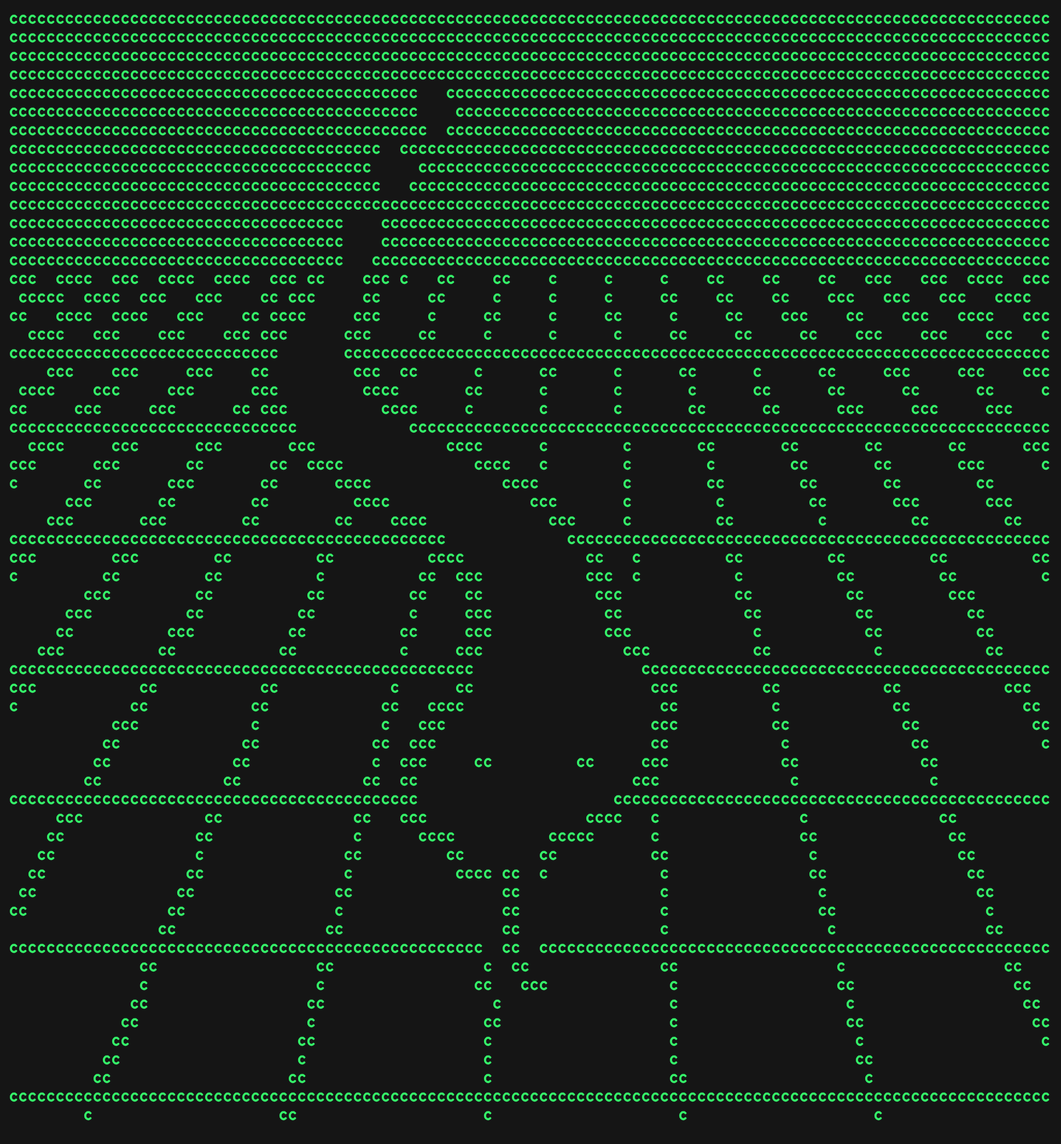
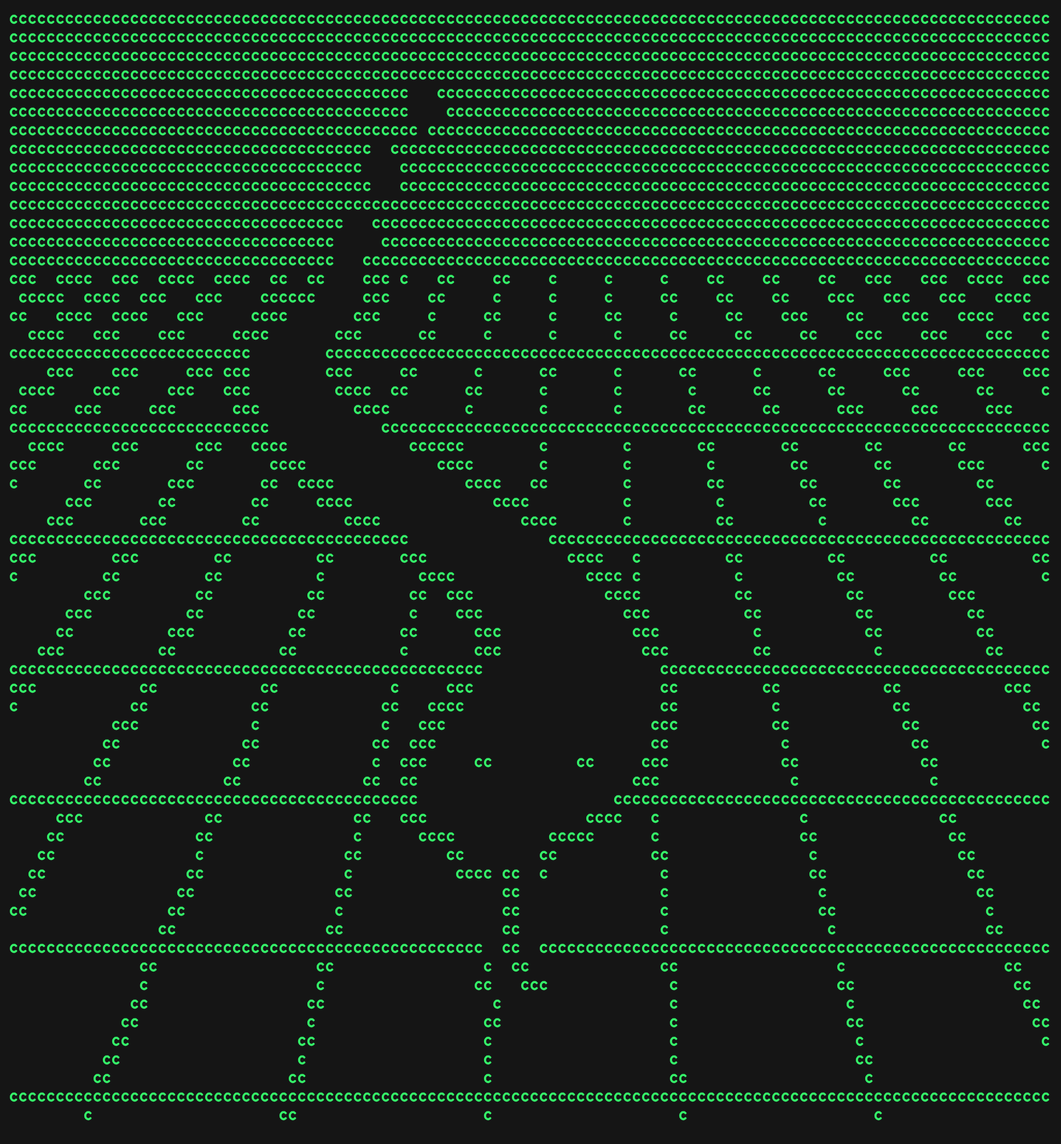
Toy: back to the swinging bend, with the head centred and broken pixels cleaned
The crawl model broke the outline near the horizon, so the body is
the earlier swinging bend again (the version picked as D), with:

- the bend eased out over the 4 rows below the neck, which no longer
  clips;
- the head drawn in the view's middle, nodding 3 px each way at the
  site's 250 px;
- each frame cleaned before it is shown: a 'c' with no 'c' around it
  (the eyes aside) is cleared and a ' ' with a 'c' on all four sides is
  filled, where two shapes met a column apart and read as broken
  pixels. No such cell is left in any of the knob states over a sway.

diff --git a/toy.js b/toy.js
@@ -10,8 +10,8 @@
 // middle is at x = 0.5: the default sits mid-way, and the ends reach far enough to feel at once and be a little silly.
 const KNOBS = [
   ['speed', 0.03, 0.3, 2.4],
-  ['sway', 0, 1, 3],
-  ['waves', 0, 1, 3],
+  ['sway', 0, 2, 12],
+  ['waves', 0, 0.7, 3],
   ['resolution', 96, 112, 192],
   ['rattle', 0, 0.6, 5],
 ];

diff --git a/logo.c b/logo.c
@@ -20,10 +20,9 @@
 #define LOGO_PI 3.14159265358979323846
 
 typedef struct {
-    double speed; /* sways a second */
-    double
-        sway; /* how far the bends swing, LOGO_SWING columns at the tail a unit (the tongue flicks a column a unit) */
-    double waves;   /* waves along the body at once: 1 is the drawn S */
+    double speed;   /* sways a second */
+    double sway;    /* columns the tail swings each way (the tongue flicks half as far) */
+    double waves;   /* waves along the body at once */
     double columns; /* the logo's width in characters */
     double rattle;  /* columns each rattle segment swings from the one below */
 } LogoSettings;     /* at rest: no sway or rattle */
@@ -34,7 +33,7 @@ extern char logo_out[LOGO_MAX_ROWS * (LOGO_MAX_COLS + 1)];
 int logo_frame(double t);
 
 #ifndef LOGO_SETTINGS
-#define LOGO_SETTINGS {0.3, 1, 1, 112, 0.6}
+#define LOGO_SETTINGS {0.3, 2, 0.7, 112, 0.6}
 #endif
 LogoSettings logo_set = LOGO_SETTINGS;
 char logo_out[LOGO_MAX_ROWS * (LOGO_MAX_COLS + 1)]; /* the rows joined by '\n' */
@@ -158,31 +157,50 @@ static void logo_draw_floor(void) {
     }
 }
 
-#define LOGO_SWING 8.0 /* columns the tail's end swings each way at a sway of 1 */
-#define LOGO_NOD 1.15  /* columns the head swings each way at a sway of 1: 3 px at the site's 250 px */
-#define LOGO_SHEAR 4.0 /* the most the wave may tilt one row of the body against the next, in columns */
+#define LOGO_NOD                                                                                                       \
+    0.575 /* the head's part of the sway: 1.15 columns each way, 3 px at the site's 250 px, at the default */
+#define LOGO_SHEAR 2.2 /* the most the sway may move one row of the body against the next, in columns */
 
-/* The radians the wave runs behind per row away from the neck */
+/* The radians the sway lags by per row away from the neck */
 static double logo_wave(void) { return logo_set.waves * 2 * LOGO_PI / (LOGO_NECK - LOGO_TAIL); }
 
-/* How far the head is from its place at phase p: a little, in step with the wave where it leaves the neck */
-static double logo_nod(double p) { return logo_set.sway * LOGO_NOD * logo_sin(p - LOGO_PI); }
+/* How far the snake is from its place at the model's row (from the neck on, the head; past the tail's end, the
+ * rattle) at phase p: the sway grows toward the tail, and the head, in the view's middle, nods with a small part of it */
+static double logo_offset(double row, double p) {
+    double from_neck = row < LOGO_NECK ? LOGO_NECK - row : 0;
+    double u = from_neck / (LOGO_NECK - LOGO_TAIL);
+    double head = LOGO_NOD;
 
-/* How far the wave carries the snake's middle at the model's row (held between the tail's end and the neck) at phase
- * p from the straight line between the tail's end and the neck, as a rattlesnake crawls: its bends run down the body
- * from the neck to the tail, as far to one side as to the other, and at phase 0 lie as the S is drawn. They grow from the head's nod at the neck, so the head stays near the view's
- * middle, to LOGO_SWING columns at the tail's end, where the body is drawn smallest and swings most */
-static double logo_carry(double row, double p) {
-    double r = row < LOGO_TAIL ? LOGO_TAIL : row > LOGO_NECK ? LOGO_NECK : row; /* the head moves as the neck */
-    double u = (LOGO_NECK - r) / (LOGO_NECK - LOGO_TAIL);
-    double behind = (LOGO_NECK - r) * logo_wave() + LOGO_PI;
     double sway = logo_set.sway;
 
     /* no more than LOGO_SHEAR columns between two rows, or the body comes apart into bars: the more waves, the less
      * it can swing */
-    if (sway * LOGO_SWING * logo_wave() > LOGO_SHEAR)
-        sway = LOGO_SHEAR / (LOGO_SWING * logo_wave());
-    return sway * LOGO_SWING * logo_sqrt(u * logo_sqrt(u)) * logo_sin(p - behind) + (1 - u) * logo_nod(p);
+    if (sway * logo_wave() > LOGO_SHEAR)
+        sway = LOGO_SHEAR / logo_wave();
+    u = u > 1 ? 1 : u;
+    return sway * (head + (1 - head) * u * logo_sqrt(u)) * logo_sin(p - from_neck * logo_wave());
+}
+
+#define LOGO_FLIP 2.0  /* the sway from which the body's bend crosses all the way to the other side */
+#define LOGO_EASE 4.0  /* rows below the neck over which the bend fades out */
+#define LOGO_DEPTH 1.0 /* how far it crosses, as a part of how far it was on its own side */
+
+/* How far the body's bend has moved at row r (between the tail's end and the neck) at phase p, for a row whose middle
+ * is at the model's column middle: its distance from the straight line from the tail's end to the neck is multiplied
+ * by a factor that swings from 1 to -LOGO_DEPTH and back (with the waves' lag), so the knee crosses to the other side every
+ * sway */
+static double logo_bend(double r, double middle, double p) {
+    double tail = (logo_snake[0][0] + logo_snake[0][1]) / 2.0;
+    double neck = (logo_snake[LOGO_NECK - LOGO_TAIL][0] + logo_snake[LOGO_NECK - LOGO_TAIL][1]) / 2.0;
+    double line = tail + (neck - tail) * (r - LOGO_TAIL) / (LOGO_NECK - LOGO_TAIL);
+    double flip = logo_set.sway < LOGO_FLIP ? logo_set.sway / LOGO_FLIP : 1;
+    double turned = (1 - logo_sin(p + LOGO_PI / 2 - (LOGO_NECK - r) * logo_wave())) / 2 *
+                    (1 + LOGO_DEPTH); /* 0, then 1 + LOGO_DEPTH */
+
+    double near = (LOGO_NECK - r) / LOGO_EASE; /* eased in over the rows below the neck, so the neck bends smoothly */
+    double ease = near > 1 ? 1 : near < 0 ? 0 : near * near * (3 - 2 * near);
+
+    return -flip * ease * turned * (middle - line);
 }
 
 /* The model's column of side 0 (the left) or 1 (the right) of the snake as drawn at rest, at row r between two rows */
@@ -194,15 +212,12 @@ static double logo_drawn(int side, double r) {
     return (1 - t) * logo_snake[below - LOGO_TAIL][side] + t * logo_snake[above - LOGO_TAIL][side];
 }
 
-/* The middle of the snake at the model's row (held between the tail's end and the chin) at phase p */
+/* The middle of the snake at the model's row (r, held between the tail's end and the chin) at phase p */
 static double logo_middle(double row, double p) {
     double r = row < LOGO_TAIL ? LOGO_TAIL : row > LOGO_CHIN - 1 ? LOGO_CHIN - 1 : row;
+    double middle = (logo_drawn(0, r) + logo_drawn(1, r)) / 2;
 
-    double tail = (logo_drawn(0, LOGO_TAIL) + logo_drawn(1, LOGO_TAIL)) / 2;
-    double neck = (logo_drawn(0, LOGO_NECK) + logo_drawn(1, LOGO_NECK)) / 2;
-    double line = tail + (neck - tail) * (r - LOGO_TAIL) / (LOGO_NECK - LOGO_TAIL);
-
-    return (r < LOGO_NECK ? line : (logo_drawn(0, r) + logo_drawn(1, r)) / 2) + logo_carry(r, p);
+    return middle + logo_offset(row, p) + logo_bend(r, middle, p);
 }
 
 /* A side of the snake at the model's row, in this frame's columns: side 0 the left, 1 the right. The body keeps its
@@ -216,7 +231,7 @@ static double logo_side(int side, double row, double p) {
     double rest = (logo_drawn(0, down) + logo_drawn(1, down) - logo_drawn(0, up) - logo_drawn(1, up)) / 2;
     double now = logo_middle(down, p) - logo_middle(up, p);
     double slant = (4 + now * now) / (4 + rest * rest);
-    double width = (logo_drawn(1, r) - logo_drawn(0, r)) * logo_sqrt(slant < 0.5625 ? 0.5625 : slant < 1 ? slant : 1);
+    double width = (logo_drawn(1, r) - logo_drawn(0, r)) * (logo_sqrt(slant < 0.5625 ? 0.5625 : slant < 1 ? slant : 1));
 
     return logo_x(logo_middle(row, p) + (side ? width : -width) / 2);
 }
@@ -254,7 +269,7 @@ static void logo_draw_snake(double p) {
     for (y = chin; y < logo_y(LOGO_CHIN + 1); y++)
         logo_fill(y, logo_side(0, LOGO_CHIN, p) - logo_thin(), logo_side(1, LOGO_CHIN, p) + logo_thin(), 'c');
     for (e = 0; e < 2; e++) {
-        double col = logo_eyes[e] + logo_nod(p);
+        double col = logo_eyes[e] + logo_offset(LOGO_EYES_ROW, p);
 
         logo_fill(logo_y(LOGO_EYES_ROW), logo_x(col - 0.4), logo_x(col + 0.4), 'c');
     }
@@ -264,7 +279,7 @@ static void logo_draw_snake(double p) {
  * with a dark column either side where it crosses the floor */
 static void logo_draw_tongue(double p) {
     double half = 0.5 / logo_scale;
-    double flick = logo_set.sway * logo_sin(3 * p);
+    double flick = logo_set.sway / 2 * logo_sin(3 * p);
     int y;
     unsigned i;
 
@@ -276,7 +291,7 @@ static void logo_draw_tongue(double p) {
             double to = logo_row(y) + half > part[2] ? part[2] : logo_row(y) + half;
             double a = part[1] + (part[3] - part[1]) * (from - part[0]) / (part[2] - part[0]);
             double b = part[1] + (part[3] - part[1]) * (to - part[0]) / (part[2] - part[0]);
-            double moved = logo_nod(p) + flick * (to - LOGO_CHIN) / (part[2] - LOGO_CHIN);
+            double moved = logo_offset(LOGO_CHIN, p) + flick * (to - LOGO_CHIN) / (part[2] - LOGO_CHIN);
             double left = logo_x((a < b ? a : b) + moved);
             double right = logo_x((a < b ? b : a) + moved);
 
@@ -296,16 +311,14 @@ static void logo_draw_rattle(double p) {
     double cols[4];
     double left = logo_side(0, LOGO_TAIL, p);
     double right = logo_side(1, LOGO_TAIL, p);
-    double moved = logo_carry(LOGO_TAIL, p);
+    double moved = logo_offset(LOGO_TAIL, p);
     double scale = 1.05;
     int k;
     int y;
 
     cols[0] = logo_middle(LOGO_TAIL, p);
     for (k = 0; k < 3; k++) {
-        double behind = (LOGO_NECK - LOGO_TAIL + 3 * (k + 1)) * logo_wave() + LOGO_PI; /* the wave, on past the tail */
-
-        moved += logo_set.rattle * logo_sin(p - behind);
+        moved += logo_set.rattle * logo_sin(p - (LOGO_NECK - LOGO_TAIL + 3 * (k + 1)) * logo_wave());
         cols[k + 1] = logo_rattle_rest[k] + moved;
     }
 
@@ -335,6 +348,28 @@ static void logo_draw_rattle(double p) {
 }
 
 /* Fills logo_out for the time t in milliseconds; returns 1 if it changed */
+static int logo_lit(int y, int x) {
+    return y >= 0 && y < logo_height && x >= 0 && x < logo_cols && logo_rows[y][x] == 'c';
+}
+
+/* Row y's column x as shown: a 'c' with no other 'c' around it (the eyes aside) and a ' ' with a 'c' on all four
+ * sides are where two drawn shapes meet a column apart, and at the site's size they read as broken pixels, so the
+ * one is cleared and the other filled */
+static char logo_shown(int y, int x) {
+    int around = 0;
+    int dy;
+    int dx;
+
+    for (dy = -1; dy <= 1; dy++)
+        for (dx = -1; dx <= 1; dx++)
+            around += (dy || dx) && logo_lit(y + dy, x + dx);
+    if (logo_rows[y][x] == 'c' && around == 0 && y != logo_y(LOGO_EYES_ROW))
+        return ' ';
+    if (logo_rows[y][x] == ' ' && logo_lit(y, x - 1) && logo_lit(y, x + 1) && logo_lit(y - 1, x) && logo_lit(y + 1, x))
+        return 'c';
+    return logo_rows[y][x];
+}
+
 int logo_frame(double t) {
     static double p;      /* the phase, carried on at the current speed: a change of speed goes on from here */
     static double last_t; /* the time of the frame before */
@@ -357,8 +392,10 @@ int logo_frame(double t) {
         int x;
 
         for (x = 0; x < logo_cols; x++) {
-            changed |= out[x] != logo_rows[y][x];
-            out[x] = logo_rows[y][x];
+            char ch = logo_shown(y, x);
+
+            changed |= out[x] != ch;
+            out[x] = ch;
         }
         changed |= out[logo_cols] != (y + 1 < logo_height ? '\n' : '\0');
         out[logo_cols] = y + 1 < logo_height ? '\n' : '\0';

diff --git a/AGENTS.md b/AGENTS.md
@@ -157,7 +157,7 @@ Dict in `snakepath.py` mapping error substrings → `(class_name, test_name)` tu
 - When API examples change, update `api_demo.c` first, then its copy in `README.md` (GitHub Pages renders that file as the website through `_layouts/default.html`), and record any new learnings here. `nob` fails (`snakepath.py`) if the copy drifts.
 - The logo (`snakepath.png`: the README image and the site's `og:image`) is ASCII art of a winding path in perspective that is also a snake: the path narrows toward a vanishing point near the horizon the way a body narrows to its tail, and the head faces the viewer in front, with two eyes and a forked tongue. The ground is a floor of lines in perspective: rows across the view whose gaps shrink steadily from 7 rows in front to touching at the horizon, and lines fanning out from the vanishing point; the path's edges stay solid. The maintainer wants it to read as a path, not just a snake, drawn with `c` only (every glyph at full strength, nothing the plain text can't show), on the site's page color (`#151515`), trimmed to the glyphs with a small margin (2026-10-27). A transparent background was tried and dropped: the green was too faint on GitHub's light theme. Rejected along the way: a fade toward the horizon, contour ripples or grooves around the path, a grid of points (its gaps read as noise), and edges in line glyphs; a flat top-down meander read as a maze. Its generator is not in the repo, like other support files.
 - The snake is a rattlesnake (2026-11-07, against readings of the favicon as sperm): its tail ends at mid-distance, a row of floor above it, in a rattle of three segments, each three rows tall and narrower than the one below. A segment is drawn whole and moved by whole columns: one shrunk to two rows loses the middle row that makes it a bead, and one moved by a fraction of a column flickers in width. Rejected on the way: a rattle at the horizon (a notch, or a tower), diamonds with one-column necks (they merge into one shape at the site's size), and diamonds 1, 5, 1 wide (plus signs, since a row is twice as tall as a column is wide).
-- The logo is a toy (2026-11-07): `logo.c` draws it, and it is written there and nowhere else (the maintainer: "the template for the snakepath icon should be written just once in the whole project, and reused"). Every frame is drawn whole from a model, so that "every state should be beautiful in its own right" and is "pixel perfect": the floor (solid to the horizon, floor lines on set rows, and lines fanning from a vanishing point above the top, half a step either side of it so that none stands upright: one through it read as one of "weird 2 columns"; leaving out the two nearest it instead left an empty lane beside the snake, which then lost its outline at real size), the snake from its tail's end to its chin by the dark columns of each row, with an edge on each side drawn like a fan line from where the side is half a row above to half a row below and a model column more (the square of the scale, so heavier at higher resolutions: the floor's lines cross a row in as many columns at every resolution, and at 150 to 192 an outline no heavier than they are dissolved into them), and a dark margin as wide past it so the outline stands apart from the floor at every resolution, its eyes and forked tongue, and the rattle hanging off the tail as a chain whose segments each swing at most `rattle` columns from the one below, the tail tapering into it: its dark narrows row by row from the tail's width to nothing at the first segment's middle ("the solid block between the snake and the diamonds, it should be more fadey"). A dithered fade was tried and dropped: at the site's size a few large cells can't carry a half-tone, and it read as stray glyphs ("this is broken"). An earlier version moved the pixels of one fixed picture; it broke the outline, left holes in the floor, dragged floor glyphs along and let the rattle float off. The model is measured in the columns and rows of the 96-column logo and draws at any width from 96 to 192 characters in the same box ("the view is fixed size"). Five knobs ("only 5 major knobs that are very expressive"), each starting in the middle ("all knobs should start in the middle"): speed, sway, waves, resolution and rattle; the snake crawls as a rattlesnake does (the maintainer's model: https://www.youtube.com/watch?v=RZAErVTNp6w): its middle is the straight line from the tail's end to the neck plus a wave whose bends run down the body from the neck to the tail, as far to one side as to the other ("the full round should be symmetrical from side to side"), lying as the S is drawn at phase 0 and growing from the head's nod at the neck to 8 columns at the tail. The head stays in the view's middle ("make the snakes head always be in the direct center of the icon"), nodding 1.15 columns each way, 3 px at the site's 250 px ("The head should move *a bit*, like range +-3 px"). The body keeps its thickness along its path: a row crossing a stretch more upright than at rest narrows with it, to 3/4 at most, and one crossing a slant keeps its width (a mirrored bend that kept its rows' widths was "way too fat", and narrowing without a floor pinched it). Earlier attempts: a sway that grew toward the tail around a fixed S never turned the knee, and flipping the drawn bend made a lump at the turn and clipped the neck; what used to be fixed is derived from them ("they can be derived from the 5 knobs"): the head nods with the wave where it leaves the neck, the rattle continues the body's wave past the tail, and the tongue flicks a column for each unit of sway. Each knob's position maps through a curve with its default in the middle and ends far enough to feel at once and be a little comical ("we need much larger ranges. Moving the knob end-to-end should be immediately feelable, and also a little comical"): speed 0.03 to 2.4 sways a second, sway 0 to 3 (1 is the drawing's swing), waves 0 to 3 (1 is the drawn S), resolution 96 to 192 (below 96 the outline dissolves into the floor's lines at the site's 300 px; looked at over a whole sway, not in one frame: "the animation needs to work at every point"), rattle 0 to 5. So that every state stays whole, the sway is capped where the wave would tilt one row of the body more than 4 columns against the next (more waves, less swing; with none, the whole snake swings like a pendulum). At the defaults the parts move in balance ("make the middle (default) speeds and accelerations balanced against each other"): every row's speed grows evenly from the neck to the tail, the rattle rides the tail at its speed, and the tongue's flick peaks at the body's acceleration. The phase is carried on frame to frame, so a change of speed goes on from where the snake is ("resume where it can instead of restarting"). Under 4 device pixels a character is drawn as a block nearly as bright as a glyph, at its fractional place: glyphs drawn whole pixels apart overlapped into stripes in netanel.dev's 110 px tile.
+- The logo is a toy (2026-11-07): `logo.c` draws it, and it is written there and nowhere else (the maintainer: "the template for the snakepath icon should be written just once in the whole project, and reused"). Every frame is drawn whole from a model, so that "every state should be beautiful in its own right" and is "pixel perfect": the floor (solid to the horizon, floor lines on set rows, and lines fanning from a vanishing point above the top, half a step either side of it so that none stands upright: one through it read as one of "weird 2 columns"; leaving out the two nearest it instead left an empty lane beside the snake, which then lost its outline at real size), the snake from its tail's end to its chin by the dark columns of each row, with an edge on each side drawn like a fan line from where the side is half a row above to half a row below and a model column more (the square of the scale, so heavier at higher resolutions: the floor's lines cross a row in as many columns at every resolution, and at 150 to 192 an outline no heavier than they are dissolved into them), and a dark margin as wide past it so the outline stands apart from the floor at every resolution, its eyes and forked tongue, and the rattle hanging off the tail as a chain whose segments each swing at most `rattle` columns from the one below, the tail tapering into it: its dark narrows row by row from the tail's width to nothing at the first segment's middle ("the solid block between the snake and the diamonds, it should be more fadey"). A dithered fade was tried and dropped: at the site's size a few large cells can't carry a half-tone, and it read as stray glyphs ("this is broken"). An earlier version moved the pixels of one fixed picture; it broke the outline, left holes in the floor, dragged floor glyphs along and let the rattle float off. The model is measured in the columns and rows of the 96-column logo and draws at any width from 96 to 192 characters in the same box ("the view is fixed size"). Five knobs ("only 5 major knobs that are very expressive"), each starting in the middle ("all knobs should start in the middle"): speed, sway, waves, resolution and rattle; the body's bend swings: each row's distance from the straight line between the tail's end and the neck is multiplied by a factor that goes from 1 to -1 and back with the wave's lag, eased out over the 4 rows below the neck so the neck never kinks, so the knee crosses to the other side every sway, as far as it was on its own ("this knee never fully inflects to the other side, so it doesn't sell this. Have that happen even at default"); the body keeps its thickness along its path: a row crossing a stretch more upright than at rest narrows with it, to 3/4 at most, and one crossing a slant keeps its width (a mirror that kept its rows' widths was "way too fat"; narrowing without a floor pinched it; the maintainer picked this, D, of five versions side by side). The head is drawn in the view's middle ("make the snakes head always be in the direct center of the icon") and nods with a small part of the sway, 3 px each way at the site's 250 px ("The head should move *a bit*, like range +-3 px"). A crawl modelled on a real rattlesnake (bends running down from a still neck, 8 columns at the tail) was tried and reverted: the tail lay flat near the horizon and its outline came apart ("What we had before worked much better"). A frame is shown cleaned: a 'c' with no other 'c' around it (the eyes aside) is cleared and a ' ' with a 'c' on all four sides filled, since where two shapes meet a column apart they read as broken pixels ("Like pixels that are 'off'"); what used to be fixed is derived from them ("they can be derived from the 5 knobs"): the rattle's lag continues the body's wave, and the tongue flicks half as far as the tail sways. Each knob's position maps through a curve with its default in the middle and ends far enough to feel at once and be a little comical ("we need much larger ranges. Moving the knob end-to-end should be immediately feelable, and also a little comical"): speed 0.03 to 2.4 sways a second, sway 0 to 12 columns, waves 0 to 3, resolution 96 to 192 (below 96 the outline dissolves into the floor's lines at the site's 300 px; looked at over a whole sway, not in one frame: "the animation needs to work at every point"), rattle 0 to 5. So that every state stays whole, the sway is capped where it would move one row of the body more than 2.2 columns against the next (more waves, less swing; with few, the whole snake swings like a pendulum). The phase is carried on frame to frame, so a change of speed goes on from where the snake is ("resume where it can instead of restarting"). Under 4 device pixels a character is drawn as a block nearly as bright as a glyph, at its fractional place: glyphs drawn whole pixels apart overlapped into stripes in netanel.dev's 110 px tile.
 - The toy is a widget, `<snakepath-toy>` in `toy.js`: `logo.wasm` in a worker draws on an `OffscreenCanvas` off the page's thread (the maintainer: "the rendering should be off the main thread"), and with the `controls` attribute the knobs, a reset and an export float over its top right, over the horizon where the snake never reaches, in pixels so they keep their size on every screen (10 px text, 118 px wide, at 0.9 opacity until hovered), with thin sliders ("make the knobs appear on the animation, but slightly opaque, and smaller", "make the literal knob much less fat"). When the page may not write to the clipboard (an iframe without `allow="clipboard-write"`), export shows the command in a prompt instead. What is inside the element (`snakepath.png`) shows until it draws, and stays without JavaScript, a worker, WebAssembly or with reduced motion. The site's hero is one, and `toy.html` is the toy alone filling its frame for other pages (netanel.dev's tile embeds it; `toy.html?controls` shows the knobs). Export copies a command like the README's snippet that fetches `snake.c`, compiles it with the chosen settings and runs it: `curl -sSL https://snakepath.dev/snake.c | cc -std=c99 '-DLOGO_SETTINGS={...}' -xc - -o snake && ./snake`. `snake.c` is made by `./nob snake`: `logo.c` with `LOGO_MAIN` and, in place of its `#include "snakepath.h"`, `snakepath.h` cut down by `trim.h` to what it uses; it plays the snake in a terminal, or with a directory writes one sway there, a file per frame, through snakepath. `logo.wasm` and `snake.c` are built in CI, never committed: CI's `site` job builds the site with Pages' builder and adds them, and `deploy-site` deploys it from `main`, so Pages' source is GitHub Actions. `snakepath.png` (the share image and the fallback) is `logo.c`'s frame at rest, and `snakepath.gif` (the README's logo on GitHub, which runs no scripts) one sway at the defaults, made by `logo.c` compiled natively; both are regenerated when the model or its defaults change.
 - `trim.h` (2026-11-07) cuts a C header down to what a program uses, its own header and not part of snakepath: the caller gives all the context (the header's text, the program's text, whose identifiers are the roots, and the `#ifdef` blocks to leave out), and it keeps every file-scope definition (function, prototype, variable, type, `#define`) that the program names, directly or through what it keeps, on every `#if` branch, with everything that is no definition (includes, `#if` lines and what they name). It reads C as clang-format lays it out: a function's body ends on its first line or at a `}` that starts a line, since counting braces fails where `#if` branches each open or close their own. nob tests it on every configuration: the default run trims `snakepath.h` to what `test.c` uses and runs the whole suite against it with every compiler and language (`trim_out/`, and MSVC C and C++ in `build-windows`), and builds `snake.c` with the C compilers (`-Werror`, clang's `-Weverything`) and runs it in frames mode.
 - The site (`README.md` through `_layouts/default.html`) fitted one screen, collapsibles closed, at the maintainer's browser size of about 1333×730 CSS pixels (2026-11-01); since the logo became a toy (2026-11-07), the hero is two columns, the toy and the text (the maintainer chose a big hero over fitting one screen, then "the size should be 300px, not 500px", then "make the icon and text panels the same width", then "Make the snake 250px wide": the toy is 250 px and the text takes the rest), so the demo code starts lower. The header is a hero: the logo, a large title, the tagline and the README's intro (everything above its `<!-- The site shows the text above in its header, beside the logo. -->` comment, which the layout splits on), with the GitHub button beside the title. Below it, one column: the demo code, Build & Test on one line with its command, the license, and the API reference last; code blocks are as wide as their code. The page is a centered column at most 52rem wide, about the demo code's width, and from 1700px everything is 12.5% larger. Rejected: the demo code floated right (it squeezed and clipped the opened reference), the logo alone under the collapsibles beside an empty gap ("this sucks"), intro and logo stacked on the left of a 1120px column ("messy", too much margin), content 1520px wide and left-aligned ("too wide", then "center everything again"), logo, text and code as three columns with a gap in the text column ("still sucks"), and the GitHub button at the hero's right edge, which made the page wider than its content. When the maintainer can't say what's wrong with a layout, build a few distinct variants as pages served locally and let them pick. Check a layout change in headless Chrome at that size and at 1920×1080 before pushing it. To serve the site locally as Pages builds it, run CI's builder image (`ghcr.io/actions/jekyll-build-pages`, which needs Docker) with Ruby as the entrypoint, `require "github-pages"`, and run `Jekyll::Commands::Build.process` then `Serve.process` with `watch` and `force_polling` on the repo mounted read-only; it rebuilds on every save.
